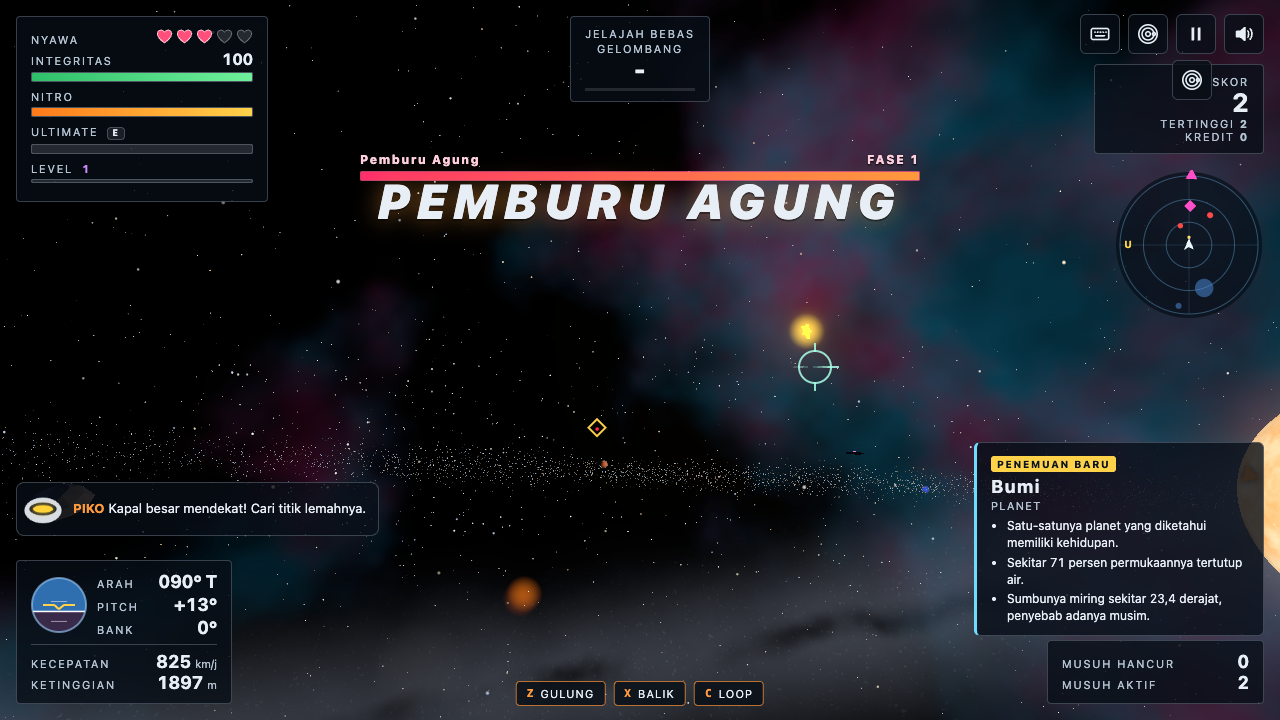
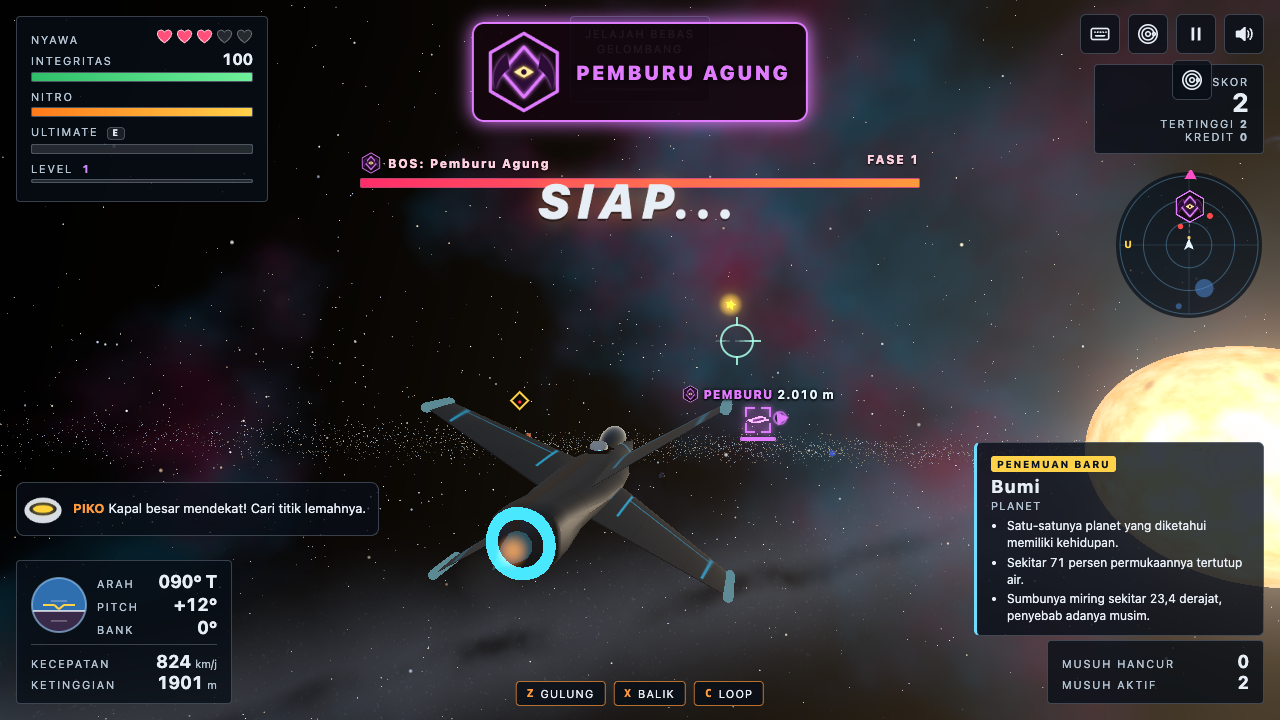
docs: B10 verifikasi Definition of Done blok BT dan hal yang masih kurang, screenshot uji bos diperbarui

diff --git a/docs/SELF-REVIEW.md b/docs/SELF-REVIEW.md
@@ -103,6 +103,23 @@ putaran tinjauan visual.
 | Mode keyboard desktop dan gameplay tidak berubah, semua tes lama lolos | Ya | `tests/game.spec.mjs` |
 | Tidak ada em dash dan ampersand di seluruh repo | Ya | `grep` 0 di seluruh berkas proyek di luar dependensi |
 
+## Blok BT: petunjuk bos, tabrakan berbasis ukuran, zoom iOS, rencana APK (B1 sampai B10)
+
+Bukti utama ada di `docs/bos/diagnosis.md`, `docs/bos/perilaku.md`, `docs/fisika/tabrakan.md`,
+`docs/zoom-ios.md`, dan `docs/apk/rencana-apk.md`. Uji: `tests/bos.spec.mjs` dan `tests/zoom.spec.mjs`.
+Screenshot sebelum dan sesudah ada di `docs/bos/screenshots/`.
+
+| Butir | Status | Bukti atau catatan |
+| --- | --- | --- |
+| Semua bos dan mini-bos terlihat jelas di semua dunia, dengan outline, ikon, panah tepi, jejak, arah gerak, dan blip radar | Ya, dengan catatan | Dari 576 pengukuran, yang tidak terlihat turun dari 84 menjadi 3, dan yang jelas naik dari 278 menjadi 498. Uji B2 lolos untuk 4 bos x 12 dunia x 4 jarak: minimal 20 piksel atau penanda tampil. Catatan: di jarak 1200 bos kecil hanya 7 sampai 14 piksel tinggi, jadi pelacakan bergantung pada penanda; Naga di medan Bumi kualitas Tinggi bisa tertutup awan |
+| Penyebab bos tidak terlihat teridentifikasi dengan bukti dan diperbaiki | Ya | Tabel butir a sampai j di diagnosis. Penyebab utama: material gelap tanpa emissive atau rim, far kamera Bumi (504 di Rendah) dan kabut, bos mengekor di luar layar, dan bos tidak masuk penanda tepi. Butir d, f, g, h, i, j terbukti bukan penyebab |
+| Siklus serang bos memberi jendela rentan di depan pemain, parameter per kesulitan bekerja, metrik terukur dan tertulis | Ya | Bot jelajah di kerucut depan: Mudah 68,6 persen, Normal 46,4 persen, Sulit 25,9 persen (sebelumnya 1 sampai 3 persen). Runtun ekor di bawah 4, 6, dan 9 detik. Sentuhan bos di bawah 1 per menit (sebelumnya sampai 10). Uji B5 lolos |
+| Tabrakan berbasis ukuran dan energi: benda kecil hanya mengurangi persen HP atau tidak berdampak; benda besar, planet, daratan, dan bos tetap fatal; tidak ada tabrakan tak terlihat atau hitung ganda | Ya | Tabel `collisionTest`: kerikil 0 persen, puing 1 sampai 3 persen, sedang 19 persen, raksasa, bulan, planet, daratan, dan bos fatal. Uji nyata mencatat tepat satu benturan, juga pada 100 satuan per frame. Bola tabrakan Phobos dan Deimos kini sama dengan permukaan yang terlihat |
+| Zoom dua kali ketuk dan cubit dicegah dengan semua lapisan B7, tes otomatis lolos, langkah uji manual iPhone tersedia | Ya, dengan catatan | 8 uji zoom lolos (WebKit iPhone 12 dan 14, iPhone 14 berponi, Chromium Pixel 7). Catatan: emulasi WebKit tidak menjalankan logika zoom iOS yang sebenarnya, jadi perilaku di iPhone asli belum terverifikasi. Langkah manual ada di `docs/zoom-ios.md` |
+| docs/apk/rencana-apk.md lengkap, spesifik, dengan rekomendasi tegas, tanpa implementasi di game | Ya | Rekomendasi: PWA, lalu TWA Bubblewrap, lalu Play Store. Tidak ada berkas Android, tombol, atau perubahan game untuk APK |
+| Tidak ada regresi gameplay, kontrol, performa, keamanan, atau tata letak HP | Ya | Suite lengkap 159 uji lolos (8 uji zoom dilewati karena khusus mesin lain), console bersih termasuk CSP. Metrik bot A5: 5 dari 6 kombinasi identik; satu menyimpang karena pantulan asteroid baru, tetap jauh di bawah ambang. Performa: frame 16,67 ms di 20 skenario, kerja JS 1,59 menjadi 1,51 ms. CSP berbasis hash diperbarui dan hook tetap hanya lewat `?debug=1` |
+| CHANGELOG, versi, tag, dan rilis diperbarui, tidak ada em dash dan ampersand | Ya | CHANGELOG 2.3.0, tag beranotasi `v2.3.0`, GitHub Release RAPTOR13 2.3.0. `GAME_VERSION` dan `package.json` 2.3.0. `git grep` tanpa em dash dan ampersand di berkas teks |
+
 ## Yang masih kurang menurut penilaian sendiri
 
 - Kinerja di perangkat HP sungguhan belum diukur; preset Tinggi butuh sekitar 1,3 detik untuk
@@ -118,3 +135,14 @@ putaran tinjauan visual.
   (mode Ringkas yang menjadi bawaan di perangkat sentuh muat).
 - Mode HP belum dicoba di perangkat sungguhan: Fullscreen API, kunci orientasi, safe area asli, dan
   rasa joystick hanya diuji lewat emulasi.
+- Bos (2.3.0): bot sederhana butuh lebih lama mengalahkan Pemburu Agung, Penambang, dan Naga karena bos tidak
+  lagi bisa ditempel dari belakang. Di Normal bot menghabiskan sekitar separuh HP dalam 3 menit. Rasa
+  pertarungan untuk pemain manusia belum diuji; parameter `BOSS_PILOT` mungkin perlu disetel setelah
+  dicoba pemilik.
+- Bos (2.3.0): penanda di atas bos menempel pada bos, jadi bisa berada di zona tengah atau menimpa panel HUD
+  saat bos melintas di sana. Panah tepi dan indikator di belakang yang dijaga dari tumpang tindih.
+- Zoom iOS (2.3.0): belum dicoba di iPhone asli. Bila iOS tetap memperbesar lewat cubit, hanya tip "Reset
+  tampilan" dan cubit manual yang tersedia; iOS tidak mengizinkan reset zoom lewat kode di semua kasus.
+- Tabrakan (2.3.0): ambang fatal ukuran sengaja 6,9 kali radius pesawat (R 18), bukan 2 kali seperti contoh
+  di spesifikasi, agar asteroid sedang dan besar tidak menjadi fatal. Bila pemilik ingin lebih ketat, cukup
+  ubah `fatalRatio`.

diff --git a/docs/PROGRESS.md b/docs/PROGRESS.md
@@ -98,16 +98,16 @@ frame time), keamanan (CSP, hook hanya lewat `?debug=1`), tata letak HP (anggara
 kotak hitam tidak boleh mundur; semua ikon bos orisinal; setiap klaim disertai angka atau screenshot.
 HP bos, damage senjata, HP musuh, dan hadiah tidak berubah.
 
-- B1 Diagnosis bos tidak terlihat: hook `debug.bossProbe` (piksel bos terlihat dan kontras, dengan dan tanpa bos), semua bos di semua dunia pada jarak 50, 150, 400, 1200, dengan dan tanpa bloom, kualitas Rendah; metrik baseline perilaku bos; `docs/bos/diagnosis.md`.
-- B2 Keterlihatan bos: emissive dan rim light, kontur siluet (maksimal satu draw call per bos), penanda piksel minimum, bos tidak tertutup planet, opsi Sorotan bos (Mati, Halus, Kuat).
-- B3 Ikon bos orisinal, penanda di atas bos, panah tepi layar dengan arah putar, indikator BOS DI BELAKANG, peringatan awal, aman di mode HP.
-- B4 Jejak bos, panah arah gerak, titik bidik prediksi (ikut Bantuan bidik), blip radar dengan ikon dan garis putus-putus, ikon bos di Peta Tata Surya.
-- B5 Perilaku bos: siklus mendekat, serang lewat depan, lewat dan menjauh, berputar; batas waktu di ekor; jendela rentan; parameter per kesulitan; `debug.bossMetrics`; `docs/bos/perilaku.md`.
-- B6 Tabrakan berbasis ukuran dan energi: COLLISION_TIERS, tiga tingkat, cooldown per objek, sapuan anti tembus, umpan balik, `debug.collisionTest`, `docs/fisika/tabrakan.md`.
-- B7 Cegah zoom dua kali ketuk dan cubit di iOS: meta, CSS, JS, fallback visualViewport, input 16 px, uji WebKit, langkah uji manual.
-- B8 Rencana APK `docs/apk/rencana-apk.md` (dokumen saja).
-- B9 Regresi penuh, screenshot, CHANGELOG, GAME_VERSION, tag, rilis.
-- B10 Verifikasi Definition of Done dan ringkasan jujur.
+- B1 (SELESAI) Diagnosis bos tidak terlihat: hook `debug.bossProbe` (piksel bos terlihat dan kontras, dengan dan tanpa bos), semua bos di semua dunia pada jarak 50, 150, 400, 1200, dengan dan tanpa bloom, kualitas Rendah; metrik baseline perilaku bos; `docs/bos/diagnosis.md`.
+- B2 (SELESAI) Keterlihatan bos: emissive dan rim light, kontur siluet (maksimal satu draw call per bos), penanda piksel minimum, bos tidak tertutup planet, opsi Sorotan bos (Mati, Halus, Kuat).
+- B3 (SELESAI) Ikon bos orisinal, penanda di atas bos, panah tepi layar dengan arah putar, indikator BOS DI BELAKANG, peringatan awal, aman di mode HP.
+- B4 (SELESAI) Jejak bos, panah arah gerak, titik bidik prediksi (ikut Bantuan bidik), blip radar dengan ikon dan garis putus-putus, ikon bos di Peta Tata Surya.
+- B5 (SELESAI) Perilaku bos: siklus mendekat, serang lewat depan, lewat dan menjauh, berputar; batas waktu di ekor; jendela rentan; parameter per kesulitan; `debug.bossMetrics`; `docs/bos/perilaku.md`.
+- B6 (SELESAI) Tabrakan berbasis ukuran dan energi: COLLISION_TIERS, tiga tingkat, cooldown per objek, sapuan anti tembus, umpan balik, `debug.collisionTest`, `docs/fisika/tabrakan.md`.
+- B7 (SELESAI) Cegah zoom dua kali ketuk dan cubit di iOS: meta, CSS, JS, fallback visualViewport, input 16 px, uji WebKit, langkah uji manual.
+- B8 (SELESAI) Rencana APK `docs/apk/rencana-apk.md` (dokumen saja).
+- B9 (SELESAI) Regresi penuh, screenshot, CHANGELOG, GAME_VERSION, tag, rilis.
+- B10 (SELESAI) Verifikasi Definition of Done dan ringkasan jujur.
 
 ## Blok H: tata letak dan kontrol mode HP landscape (permintaan pemain 13 Nov)
 
